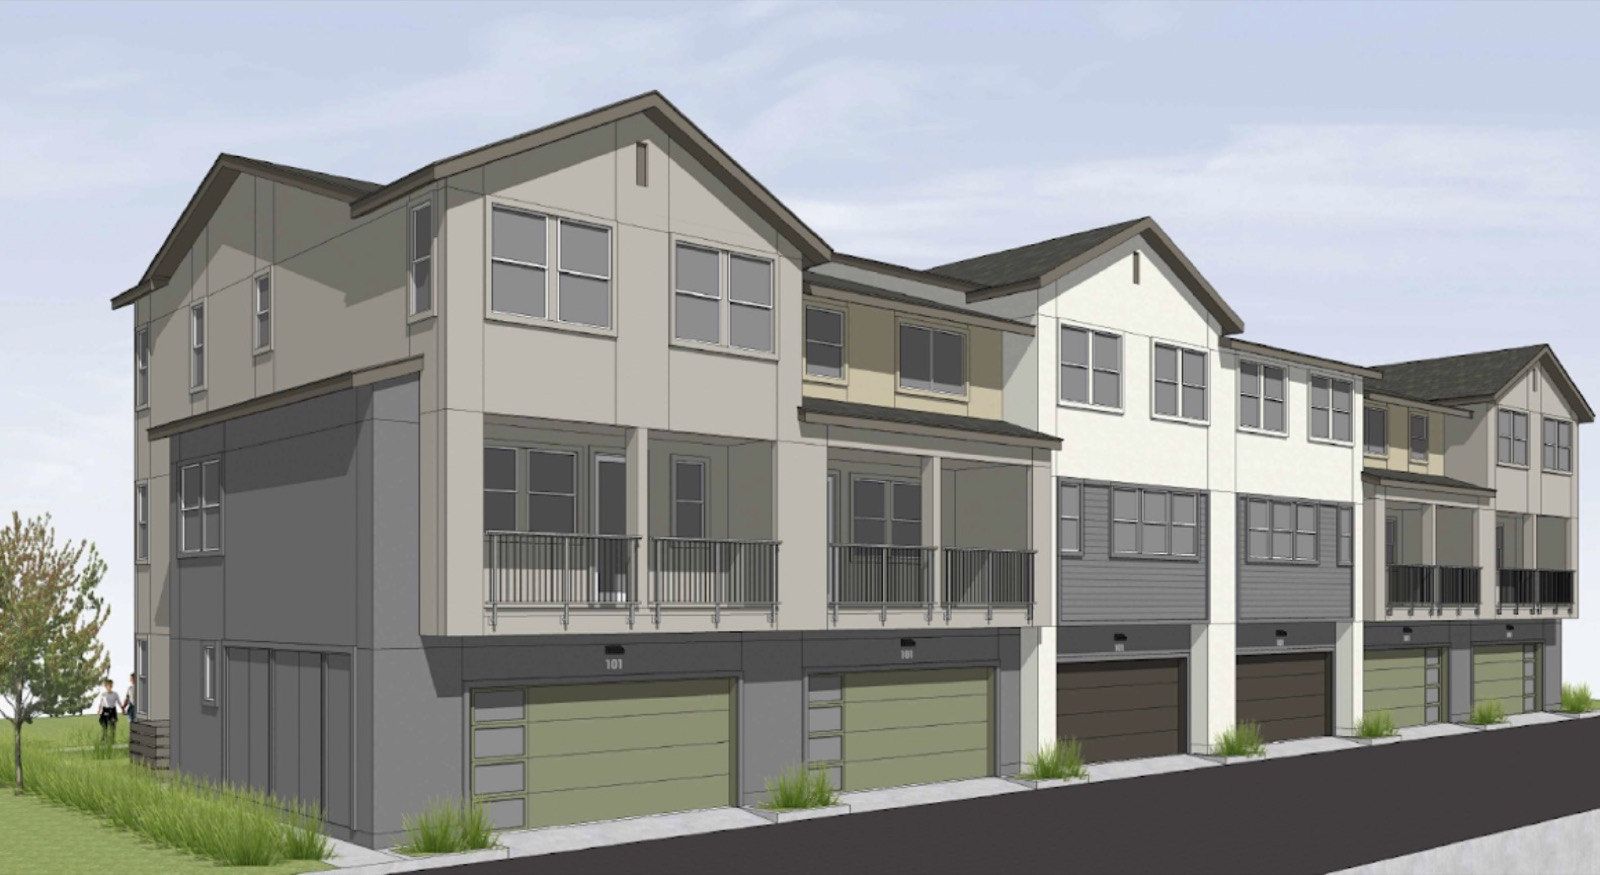
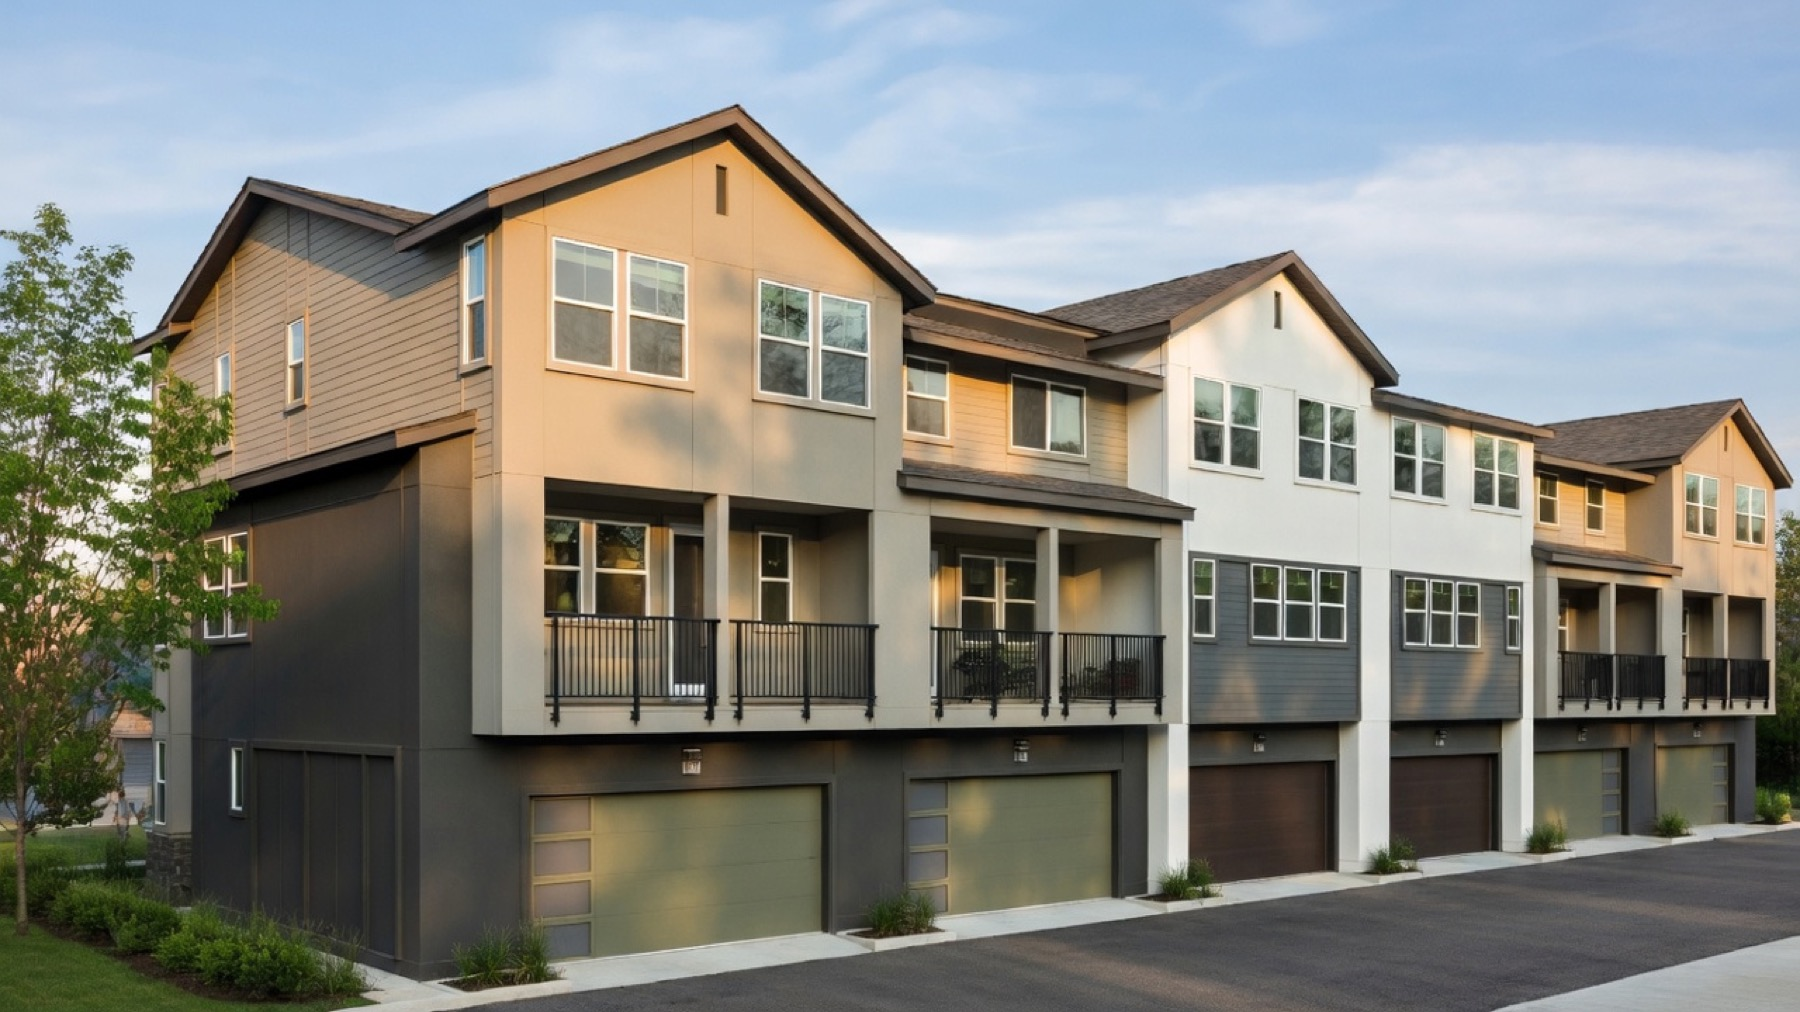
Photoreal track/thesis assets + looser gold CTA padding
- Swap Liva, Westminster, thesis aerial, and texture to more photoreal assets
- Give Request Access / gold buttons more horizontal padding and less tight letter-spacing
- Align thesis/approach/partners alts with storage-forward imagery

diff --git a/thesis.html b/thesis.html
@@ -50,7 +50,7 @@
     </section>
     <section class="section">
       <div class="container split">
-        <div class="reveal"><img src="/assets/thesis-aerial.jpg" alt="Aerial storage and light industrial campus" /></div>
+        <div class="reveal"><img src="/assets/thesis-aerial.jpg" alt="Photoreal self-storage facility campus exterior" /></div>
         <div class="reveal">
           <p class="lead">Self-storage offers a cleaner operational narrative, strong digital leasing economics, and a better fit for a capital-brand co-GP model — without requiring sole-sponsor theater.</p>
           <div class="note" style="margin-top:1.3rem;">Acquire / expand existing assets first. Ground-up only when structure and partner stack justify it.</div>
@@ -63,8 +63,8 @@
         <article class="card reveal"><h3>Future-Ready Structures</h3><p>Open to modern capital rails over time where counsel-approved. Not forced hype for 2026.</p></article>
       </div>
       <div class="container grid-2" style="margin-top:1.5rem;">
-        <div class="media-card reveal"><img src="/assets/hero-storage.jpg" alt="Self-storage exterior at dusk" /><div class="body"><div class="kicker">Storage</div><h3>Asset class focus</h3></div></div>
-        <div class="media-card reveal"><img src="/assets/texture.jpg" alt="Luxury brand texture" /><div class="body"><div class="kicker">Brand</div><h3>Quiet luxury texture</h3></div></div>
+        <div class="media-card reveal"><img src="/assets/hero-storage.jpg" alt="Photoreal self-storage drive aisle and unit doors" /><div class="body"><div class="kicker">Storage</div><h3>Asset class focus</h3></div></div>
+        <div class="media-card reveal"><img src="/assets/texture.jpg" alt="Self-storage facility detail and materials" /><div class="body"><div class="kicker">Operations</div><h3>Clean operational narrative</h3></div></div>
       </div>
     </section>
   </main>

diff --git a/index.html b/index.html
@@ -164,7 +164,7 @@
         </div>
         <div class="grid-2">
           <a class="media-card is-link reveal" href="/track-record.html">
-            <img src="/assets/westminster-square.jpg" alt="Westminster Square townhouse development rendering in Westminster, Orange County" />
+            <img src="/assets/westminster-square.jpg" alt="Westminster Square townhouse community exterior in Westminster, Orange County" />
             <div class="mark-ribbon"><span class="pill">Closed Mark</span></div>
             <div class="body">
               <div class="kicker">Back Bay Investment Group</div>
@@ -178,7 +178,7 @@
             </div>
           </a>
           <a class="media-card is-link reveal" href="/track-record.html">
-            <img src="/assets/liva-apartments.jpg" alt="Liva Apartments multifamily complex exterior" />
+            <img src="/assets/liva-apartments.jpg" alt="Liva Apartments multifamily complex exterior photograph" />
             <div class="mark-ribbon"><span class="pill">Closed Mark</span></div>
             <div class="body">
               <div class="kicker">Clear Mountain Properties</div>
@@ -235,7 +235,7 @@
           </div>
         </div>
         <div class="reveal">
-          <img src="/assets/thesis-aerial.jpg" alt="Aerial commercial real estate campus" />
+          <img src="/assets/thesis-aerial.jpg" alt="Photoreal self-storage facility campus exterior" />
         </div>
       </div>
     </section>

diff --git a/track-record.html b/track-record.html
@@ -57,7 +57,7 @@
         </div>
         <div class="grid-2">
           <article class="media-card reveal">
-            <img src="/assets/westminster-square.jpg" alt="Westminster Square townhouse development rendering in Westminster, Orange County" />
+            <img src="/assets/westminster-square.jpg" alt="Westminster Square townhouse community exterior in Westminster, Orange County" />
             <div class="mark-ribbon"><span class="pill">Closed Mark</span></div>
             <div class="body">
               <div class="kicker">Back Bay Investment Group</div>
@@ -76,7 +76,7 @@
           </article>
 
           <article class="media-card reveal">
-            <img src="/assets/liva-apartments.jpg" alt="Liva Apartments multifamily complex exterior" />
+            <img src="/assets/liva-apartments.jpg" alt="Liva Apartments multifamily complex exterior photograph" />
             <div class="mark-ribbon"><span class="pill">Closed Mark</span></div>
             <div class="body">
               <div class="kicker">Clear Mountain Properties</div>

diff --git a/approach.html b/approach.html
@@ -68,7 +68,7 @@
       <div class="container">
         <div class="grid-2" style="margin-bottom:1.5rem;">
           <div class="media-card reveal"><img src="/assets/hero-storage.jpg" alt="Self-storage exterior" /><div class="body"><div class="kicker">Assets</div><h3>Storage-forward thesis</h3></div></div>
-          <div class="media-card reveal"><img src="/assets/texture.jpg" alt="Luxury brand texture" /><div class="body"><div class="kicker">Brand</div><h3>Quiet luxury finish</h3></div></div>
+          <div class="media-card reveal"><img src="/assets/texture.jpg" alt="Self-storage facility detail and materials" /><div class="body"><div class="kicker">Operations</div><h3>Clean operational narrative</h3></div></div>
         </div>
         <div class="grid-2">
           <article class="card reveal"><div class="card-num">01</div><h3>Direct Capital Relationships</h3><p>Investors are known, not scraped. Activity is measured through real conversations, not marketplace clicks.</p></article>

diff --git a/styles.css b/styles.css
@@ -150,24 +150,29 @@ a { color: inherit; text-decoration: none; }
   height: 1px;
   background: var(--gold);
 }
-.nav-desktop .btn {
-  margin-left: 0.35rem;
-}
-.nav-desktop .btn.is-active::after { display: none; }
-
 .btn {
   display: inline-flex;
   align-items: center;
   justify-content: center;
-  padding: 0.9rem 1.4rem;
-  font-size: 0.7rem;
+  padding: 1.05rem 1.85rem;
+  min-height: 3rem;
+  font-size: 0.68rem;
   font-weight: 600;
-  letter-spacing: 0.18em;
+  letter-spacing: 0.14em;
   text-transform: uppercase;
   transition: 0.25s var(--ease);
   border: 1px solid transparent;
   cursor: pointer;
+  white-space: nowrap;
+  line-height: 1.2;
 }
+.nav-desktop .btn {
+  margin-left: 0.35rem;
+  padding: 0.85rem 1.35rem;
+  min-height: 2.6rem;
+  letter-spacing: 0.12em;
+}
+.nav-desktop .btn.is-active::after { display: none; }
 .btn-gold {
   background: linear-gradient(160deg, #d4af61 0%, #b08a45 38%, #8d6a2f 72%, #6f5320 100%);
   color: #fff;

diff --git a/partners.html b/partners.html
@@ -51,7 +51,7 @@
     <section class="section">
       <div class="container split" style="margin-bottom:1.6rem;">
         <div class="reveal"><img src="/assets/hero-storage.jpg" alt="Self-storage asset exterior" /></div>
-        <div class="reveal"><img src="/assets/thesis-aerial.jpg" alt="Commercial real estate campus aerial" /></div>
+        <div class="reveal"><img src="/assets/thesis-aerial.jpg" alt="Photoreal self-storage facility campus exterior" /></div>
       </div>
       <div class="container grid-2">
         <article class="card reveal"><h3>What we bring</h3><p>Investor relationships, packaging discipline, and close support oriented to capital — with clear role definition and respect for your brand, process, and compliance posture.</p></article>
